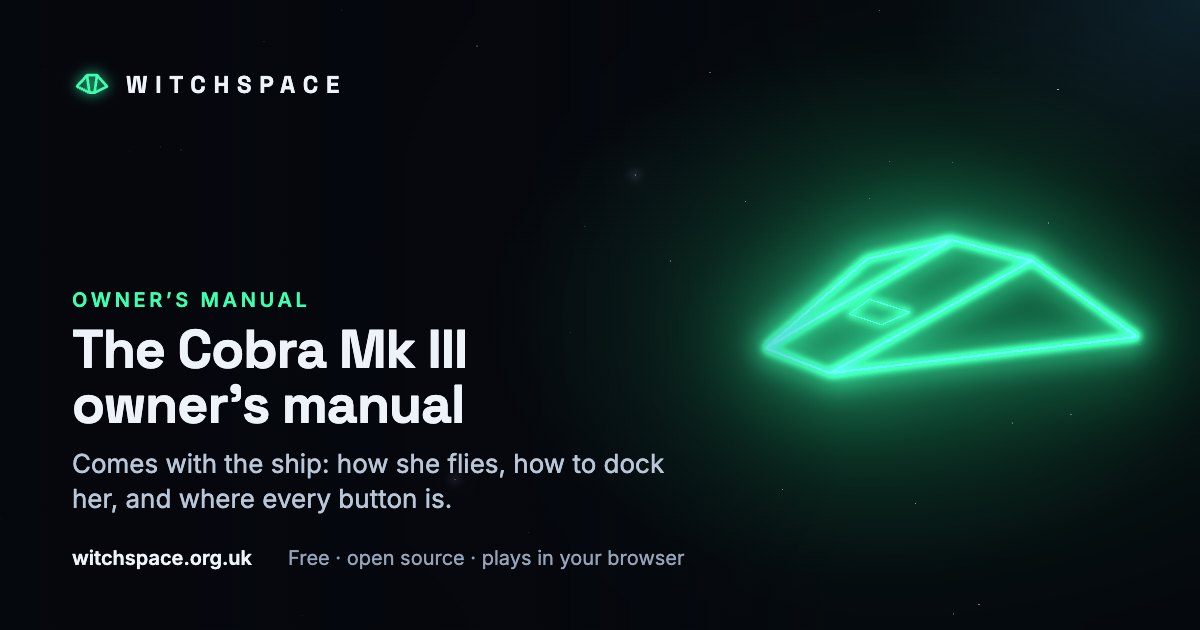
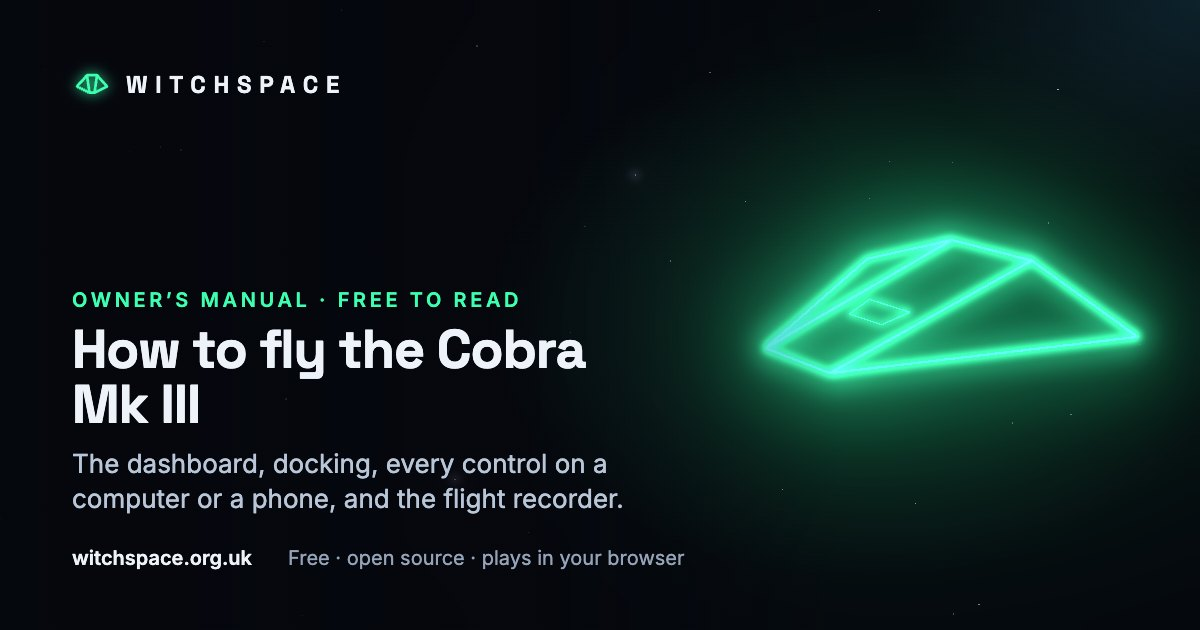
The Cobra's owner's manual free to read, the guide to flying; every other ship's a teaser with her cover and the way to earn her (Mark)

Changed region(s): [[0.0617, 0.4524, 0.4933, 0.6937], [0.0617, 0.7238, 0.555, 0.8143]]

diff --git a/tools/ships.ts b/tools/ships.ts
@@ -47,6 +47,8 @@ export interface ManualData {
   kit: Record<string, string[]>;
   luxuries: Record<string, string[]>;
   editions: Record<string, string>;
+  /** Free to read for everyone (the Cobra's, the guide to playing); every other ship's is her owner's. */
+  open?: boolean;
   /** The phone's drawer, from play/index.html: what each button does comes from the controls list (src/game/controls.ts drawerHelp). */
   drawer: { key?: string; label: string; title: string }[];
 }
@@ -548,28 +550,49 @@ function previewCard(s: ShipFile): string {
 }
 
 /** A ship's owner's manual: only its owner sees it. The page checks the save (src/site/manual.ts); everyone else is told it comes with the ship. */
+/**
+ * A ship's owner's manual. The Cobra's is free to read (Mark): every commander starts in one, so it's the guide to
+ * playing, a page to land on. Every other ship's shows her cover and a reason to earn her; the words are her owner's.
+ */
 export function manualPage(s: ShipFile, m: ManualData) {
-  const data = JSON.stringify(m).replace(/</g, '\\u003c');
+  const open = s.id === 'cobra-mk3';
+  const data = JSON.stringify({ ...m, open }).replace(/</g, '\\u003c');
+  const about = { '@type': 'CreativeWork', name: s.name, url: `https://witchspace.org.uk/ships/${s.id}/` };
+  const game = { '@type': 'VideoGame', name: 'Witchspace', url: 'https://witchspace.org.uk/play/' };
   return {
-    card: { ship: s.id, kicker: 'Owner’s manual', title: `The ${s.name} owner’s manual`, sub: 'Comes with the ship: how she flies, how to dock her, and where every button is.' },
-    schema: [{ '@type': 'CreativeWork', name: `${s.name} owner’s manual`, about: { '@type': 'CreativeWork', name: s.name, url: `https://witchspace.org.uk/ships/${s.id}/` }, isPartOf: { '@type': 'VideoGame', name: 'Witchspace', url: 'https://witchspace.org.uk/play/' } }],
-    title: `${s.name} owner’s manual · Ships · Witchspace`,
-    description: `The ${s.name} owner’s manual comes with the ship: how she flies against a Cobra, how to dock her, and every control. Owners only.`,
-    head: '    <meta name="robots" content="noindex" />\n',
-    content: `<section class="section ship-page manual-page" style="--hull:${esc(m.colour)}">
+    card: open
+      ? { ship: s.id, kicker: 'Owner’s manual · free to read', title: `How to fly the ${s.name}`, sub: 'The dashboard, docking, every control on a computer or a phone, and the flight recorder.' }
+      : { ship: s.id, kicker: 'Owner’s manual', title: `The ${s.name} owner’s manual`, sub: 'Comes with the ship: how she flies, how to dock her, and where every button is.' },
+    schema: [
+      open
+        ? { '@type': 'TechArticle', headline: `${s.name} owner’s manual: how to fly, fight and dock`, description: 'The guide to flying in Witchspace, free to read.', isAccessibleForFree: true, about, isPartOf: game }
+        : { '@type': 'CreativeWork', name: `${s.name} owner’s manual`, about, isPartOf: game },
+    ],
+    title: open ? `${s.name} owner’s manual: how to fly, fight and dock · Witchspace` : `${s.name} owner’s manual · Ships · Witchspace`,
+    description: open
+      ? `Free to read: the ${s.name} owner’s manual is the guide to flying in Witchspace. The dashboard, docking, every control on a computer or a phone, and the flight recorder.`
+      : `The ${s.name} owner’s manual comes with the ship: how she flies against a Cobra, how to dock her, and every control. Owners only.`,
+    // The Cobra's is a page to land on; the rest are owners' perks, kept out of search.
+    head: open ? '' : '    <meta name="robots" content="noindex" />\n',
+    content: `<section class="section ship-page manual-page" style="--hull:${esc(m.colour)};--ship:${esc(m.colour)}">
   <a class="back" href="/ships/${esc(s.id)}/">← The ${esc(s.name)}</a>
   <header class="man-cover">
-    <p class="kicker">Owner’s manual · ${esc(m.meta)}</p>
-    <h1 id="man-title">${esc(s.name)}</h1>
-    <p class="lede">${esc(m.description)}</p>
+    <div class="man-cover-text">
+      <p class="kicker">Owner’s manual · ${esc(m.meta)}</p>
+      <h1 id="man-title">${esc(s.name)}</h1>
+      <p class="lede">${esc(m.description)}</p>
+      ${open ? '<p class="man-free">Free to read. Every commander starts in a Cobra, so this is the guide to flying her.</p>' : ''}
+    </div>
+    ${shipSvg(s, 'ship-svg man-ship')}
   </header>
-  <div class="card manual-gate" id="manual-gate">
-    <h3>For owners only</h3>
-    <p id="manual-why">Every ${esc(s.name)} comes with her manual: how she flies against a Cobra, how to dock her, and where every button is. Checking whether she’s yours…</p>
+  <div class="card manual-gate" id="manual-gate"${open ? ' hidden' : ''}>
+    <h3>Owners only</h3>
+    <p id="manual-why">Earn her in the game, and her manual is yours, made out to you: how she flies against a Cobra, how to dock her, and where every button is.</p>
+    <p class="connect-buttons"><a class="button primary" href="/play/">Play free in your browser</a> <a class="button ghost" href="/ships/${esc(s.id)}/">See the ${esc(s.name)}</a></p>
     <div id="account" hidden></div>
-    <p class="connect-buttons"><a class="button primary small" href="/ships/${esc(s.id)}/">See the ${esc(s.name)}</a> <a class="button ghost small" href="/play/">Play Witchspace</a></p>
   </div>
   <article class="manual" id="manual" hidden></article>
+  ${open ? `<p class="connect-buttons man-fly"><a class="button primary big" href="/play/">Fly her now, free in your browser</a></p>` : ''}
   <script type="application/json" id="manual-data">${data}</script>
 </section>`,
   };

diff --git a/src/site/manual.ts b/src/site/manual.ts
@@ -166,9 +166,19 @@ function locked(why: string, signIn: boolean) {
 }
 
 const NOT_YOURS = (flying: string) =>
-  `Every ${escapeHtml(m.name)} comes with her manual: how she flies against a Cobra, how to dock her, and where every button is. You fly ${flying}: buy a ${escapeHtml(m.name)} at a shipyard and her manual is yours, here and in the game.`;
+  `You fly ${flying}: earn a ${escapeHtml(m.name)} in the game, and her manual is yours, made out to you: how she flies against a Cobra, how to dock her, and where every button is.`;
 
 async function check() {
+  // The Cobra's is open to everyone (Mark): the generic edition at once, made out to you if your save is a Cobra's.
+  if (m.open) {
+    const here = localSave();
+    if (here && hullOf(here) === m.id) return show(here);
+    show({});
+    if (!signedIn()) await refresh();
+    const cloud = await cloudSave();
+    if (cloud && hullOf(cloud) === m.id) show(cloud);
+    return;
+  }
   const here = localSave();
   if (here && hullOf(here) === m.id) return show(here);
   if (!signedIn()) await refresh();
@@ -176,7 +186,7 @@ async function check() {
   if (cloud && hullOf(cloud) === m.id) return show(cloud);
   const known = cloud ?? here;
   if (known) return locked(NOT_YOURS(hullOf(known) === 'cobra-mk3' ? 'a Cobra' : 'another ship'), false);
-  locked(`Every ${escapeHtml(m.name)} comes with her manual: how she flies against a Cobra, how to dock her, and where every button is. If she’s yours, sign in with your game account and it opens here.`, true);
+  locked(`Earn her in the game, and her manual is yours, made out to you: how she flies against a Cobra, how to dock her, and where every button is. If she’s already yours, sign in with your game account and it opens here.`, true);
   box.render();
 }
 

diff --git a/src/site/site.css b/src/site/site.css
@@ -1089,6 +1089,16 @@ button.button { cursor: pointer; }
 .manual-page .man-cover h1 span { display: inline-block; font-size: 0.5em; letter-spacing: 0; }
 .manual-page .man-cover h1 small { display: block; margin-top: 8px; font-size: 0.45em; letter-spacing: 0.02em; }
 .manual-page .man-cover .kicker { color: var(--hull); }
+/* The cover: her words, and the ship beside them (under them on a phone). */
+.manual-page .man-cover { display: flex; align-items: center; gap: 24px; }
+.manual-page .man-cover-text { flex: 1 1 auto; min-width: 0; }
+.manual-page .man-ship { flex: 0 0 200px; max-width: 200px; }
+.manual-page .man-free { margin: 14px 0 0; color: var(--fg); font-weight: 600; }
+.manual-page .man-fly { margin-top: 28px; }
+@media (max-width: 640px) {
+  .manual-page .man-cover { flex-direction: column-reverse; align-items: flex-start; gap: 4px; }
+  .manual-page .man-ship { flex-basis: auto; width: 150px; align-self: center; }
+}
 /* The manual's pictures from the game, with numbered callouts (as the game's own manual, src/style.css). */
 .manual-page .man-fig { margin: 16px 0; }
 .manual-page .man-fig figcaption { margin-top: 6px; color: var(--muted); font-size: 14px; line-height: 1.45; }
